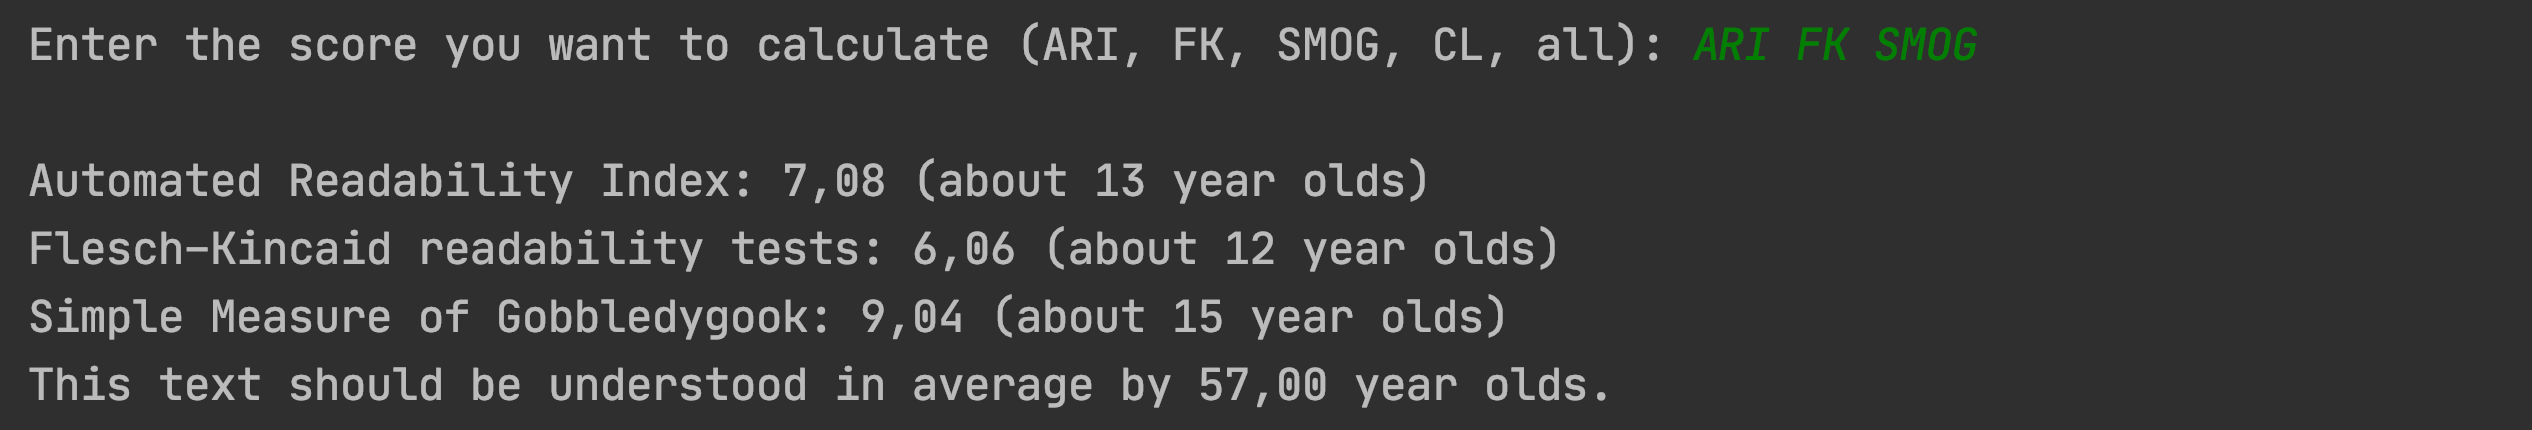
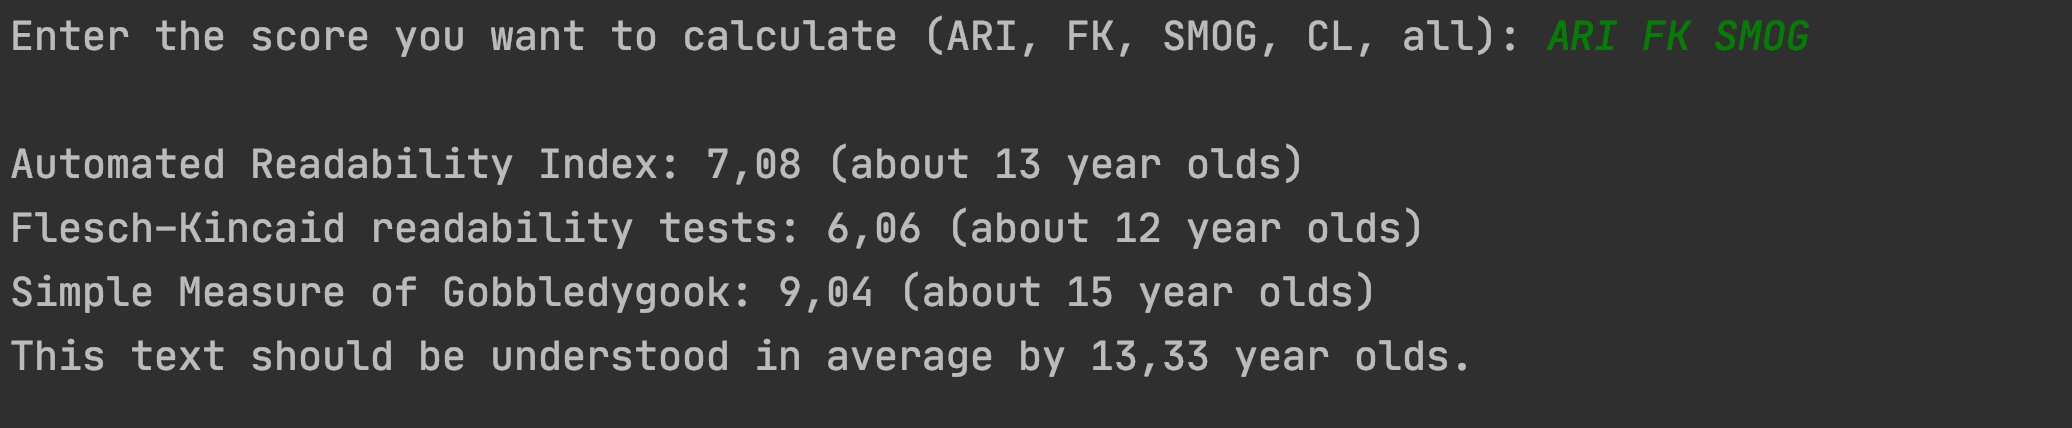
minor fixes

Changed region(s): [[0.0, 0.486, 0.7104, 0.9416], [0.0, 0.0304, 0.8958, 0.1519], [0.0, 0.3341, 0.6178, 0.4556]]

diff --git a/src/readability/ReadabilityScores.java b/src/readability/ReadabilityScores.java
@@ -31,24 +31,28 @@ public class ReadabilityScores {
                             automatedReadabilityIndex,
                             AgeStatistic.getAge((int)Math.round(automatedReadabilityIndex))));
                     numberOfScores++;
+                    sumAge += AgeStatistic.getAge((int)Math.round(automatedReadabilityIndex));
                     break;
                 case "FK":
                     result.add(String.format("Flesch–Kincaid readability tests: %.2f (about %d year olds)",
                             fleschKincaidTests,
                             AgeStatistic.getAge((int)Math.round(fleschKincaidTests))));
                     numberOfScores++;
+                    sumAge += AgeStatistic.getAge((int)Math.round(fleschKincaidTests));
                     break;
                 case "SMOG":
                     result.add(String.format("Simple Measure of Gobbledygook: %.2f (about %d year olds)",
                             simpleMeasureOfGobbledygook,
                             AgeStatistic.getAge((int)Math.round(simpleMeasureOfGobbledygook))));
                     numberOfScores++;
+                    sumAge += AgeStatistic.getAge((int)Math.round(simpleMeasureOfGobbledygook));
                     break;
                 case "CL":
                     result.add(String.format("Coleman–Liau index: %.2f (about %d year olds)",
                             colemanLiauIndex,
                             AgeStatistic.getAge((int)Math.round(colemanLiauIndex))));
                     numberOfScores++;
+                    sumAge += AgeStatistic.getAge((int)Math.round(colemanLiauIndex));
                     break;
                 case "all":
                     result.add(String.format("Automated Readability Index: %.2f (about %d year olds)",
@@ -64,17 +68,17 @@ public class ReadabilityScores {
                             colemanLiauIndex,
                             AgeStatistic.getAge((int)Math.round(colemanLiauIndex))));
                     numberOfScores = 4;
+                    all();
                     break;
             }
-            sumAge();
-            averageAge = sumAge / numberOfScores;
         }
+        averageAge = sumAge / numberOfScores;
 
 
         return result;
     }
 
-    private void sumAge() {
+    private void all() {
         sumAge += AgeStatistic.getAge((int)Math.round(automatedReadabilityIndex));
         sumAge += AgeStatistic.getAge((int)Math.round(simpleMeasureOfGobbledygook));
         sumAge += AgeStatistic.getAge((int)Math.round(fleschKincaidTests));
